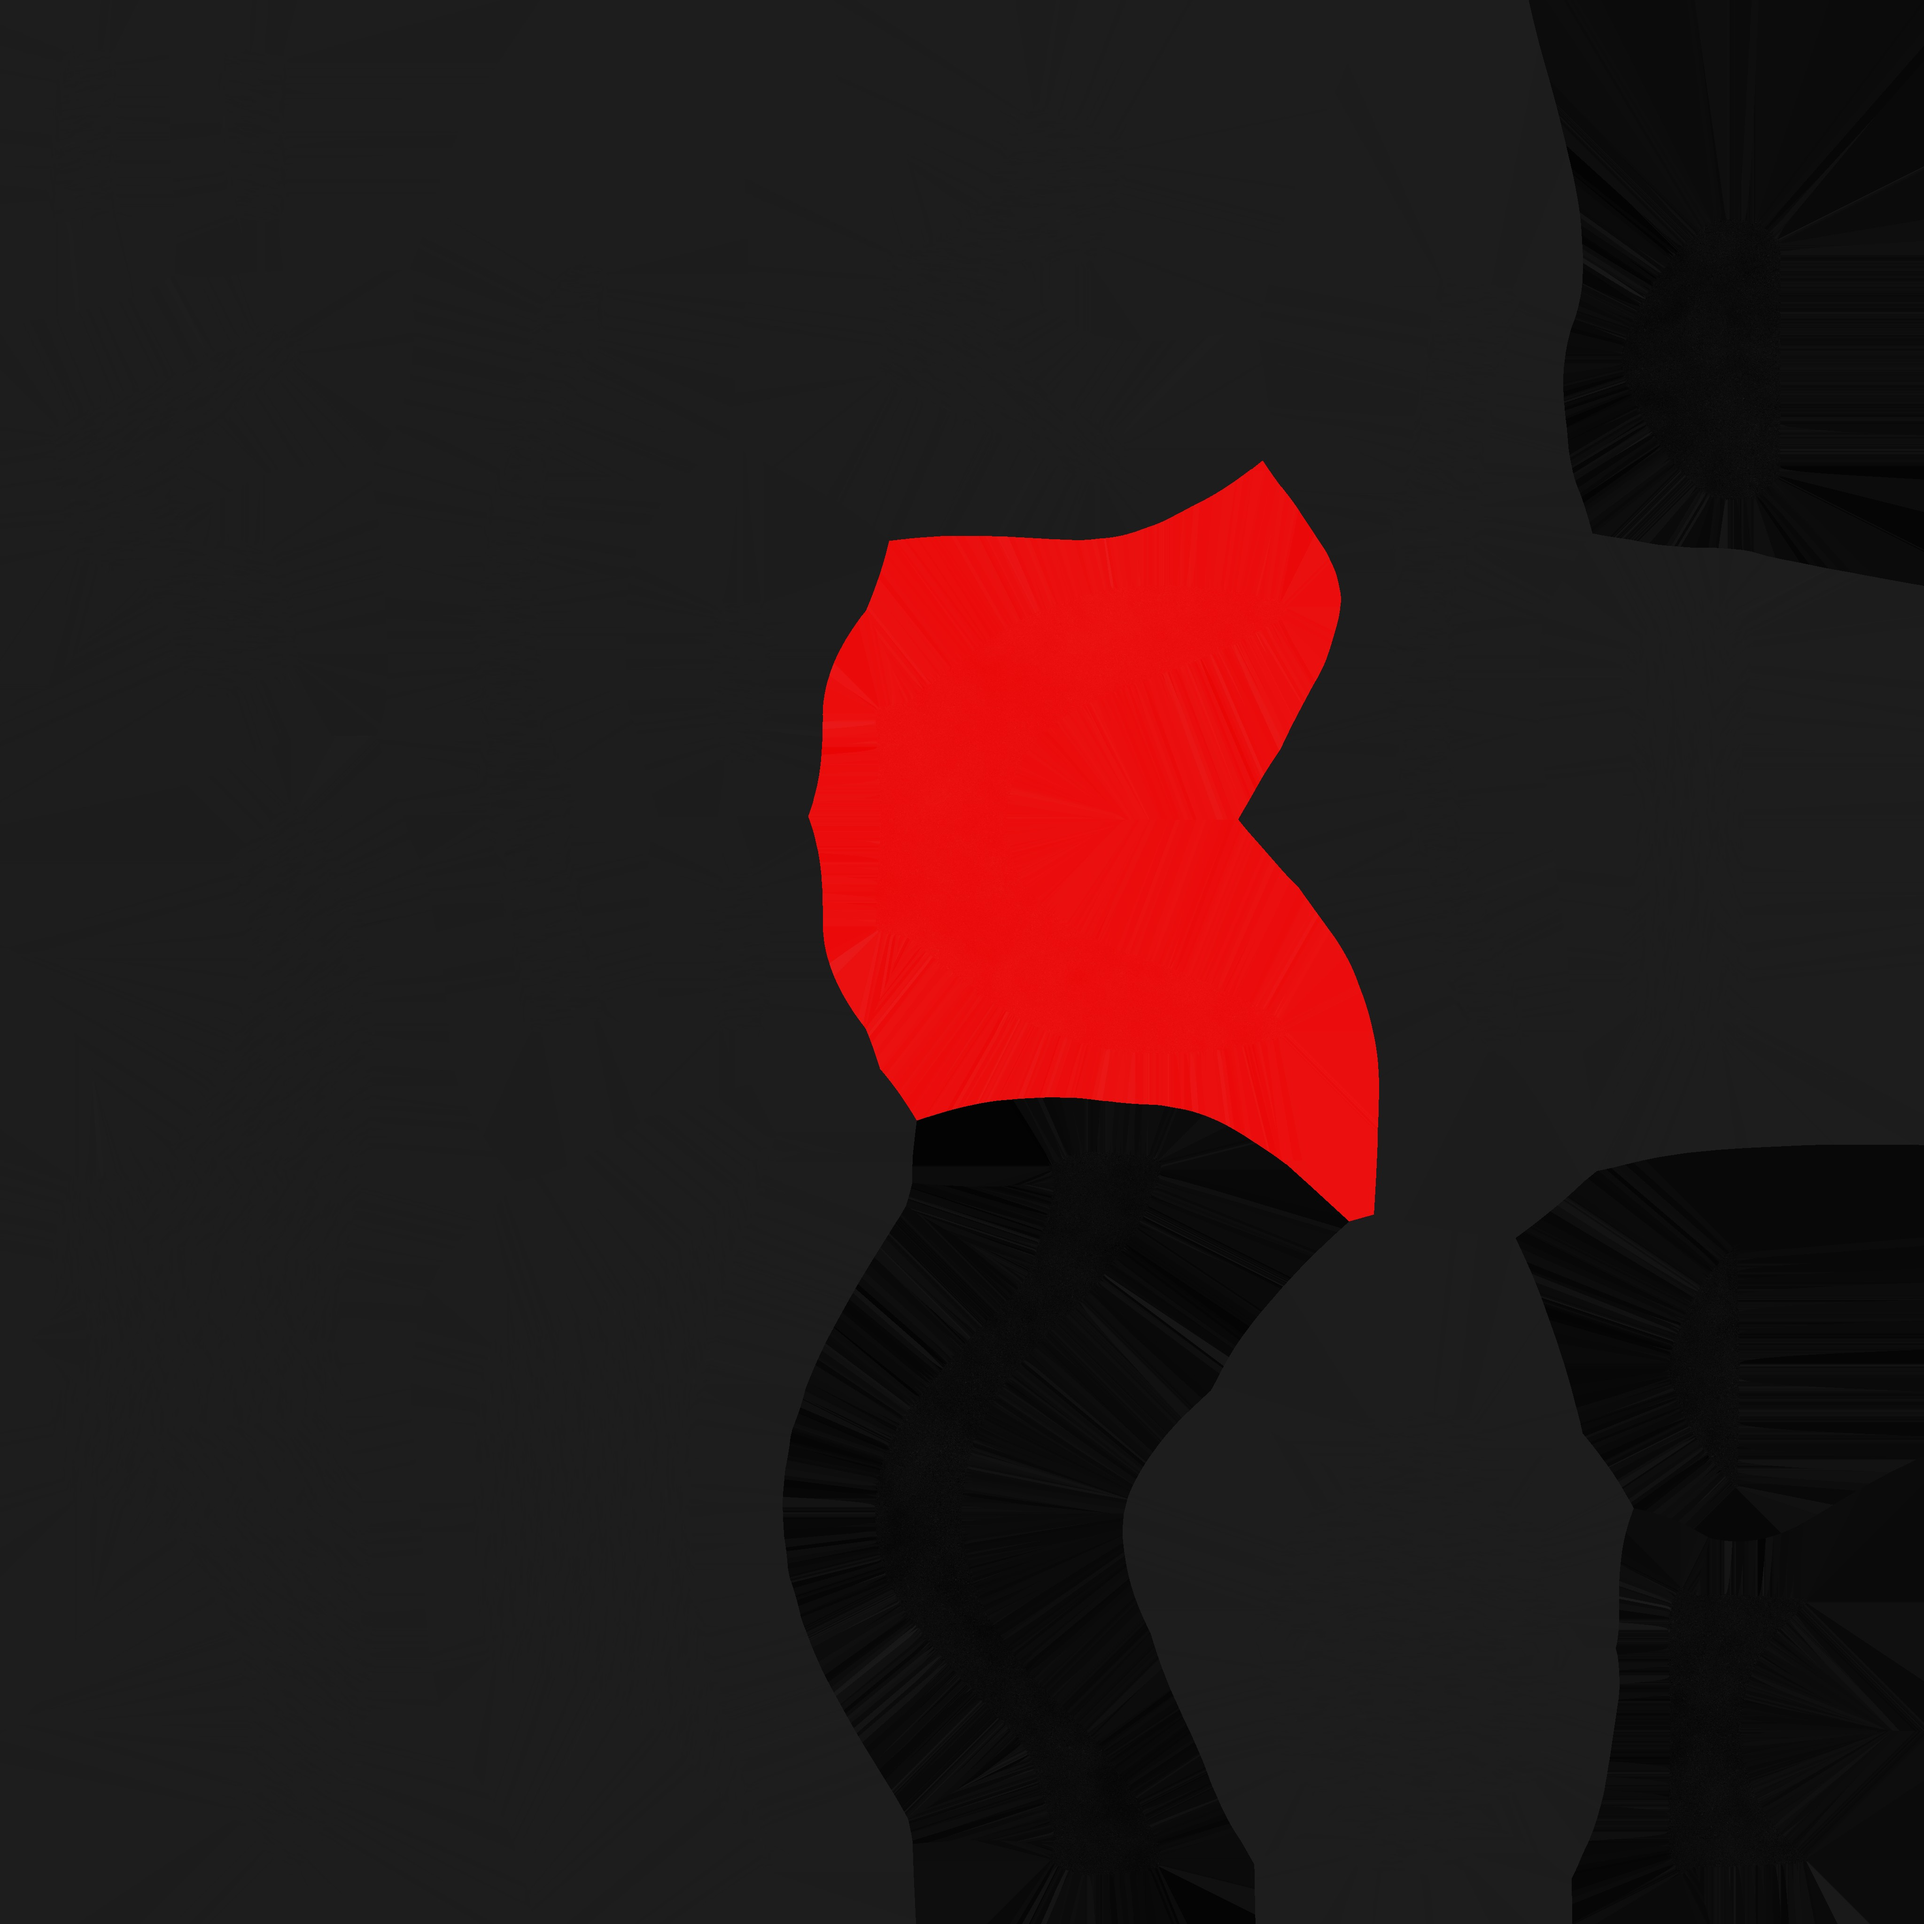
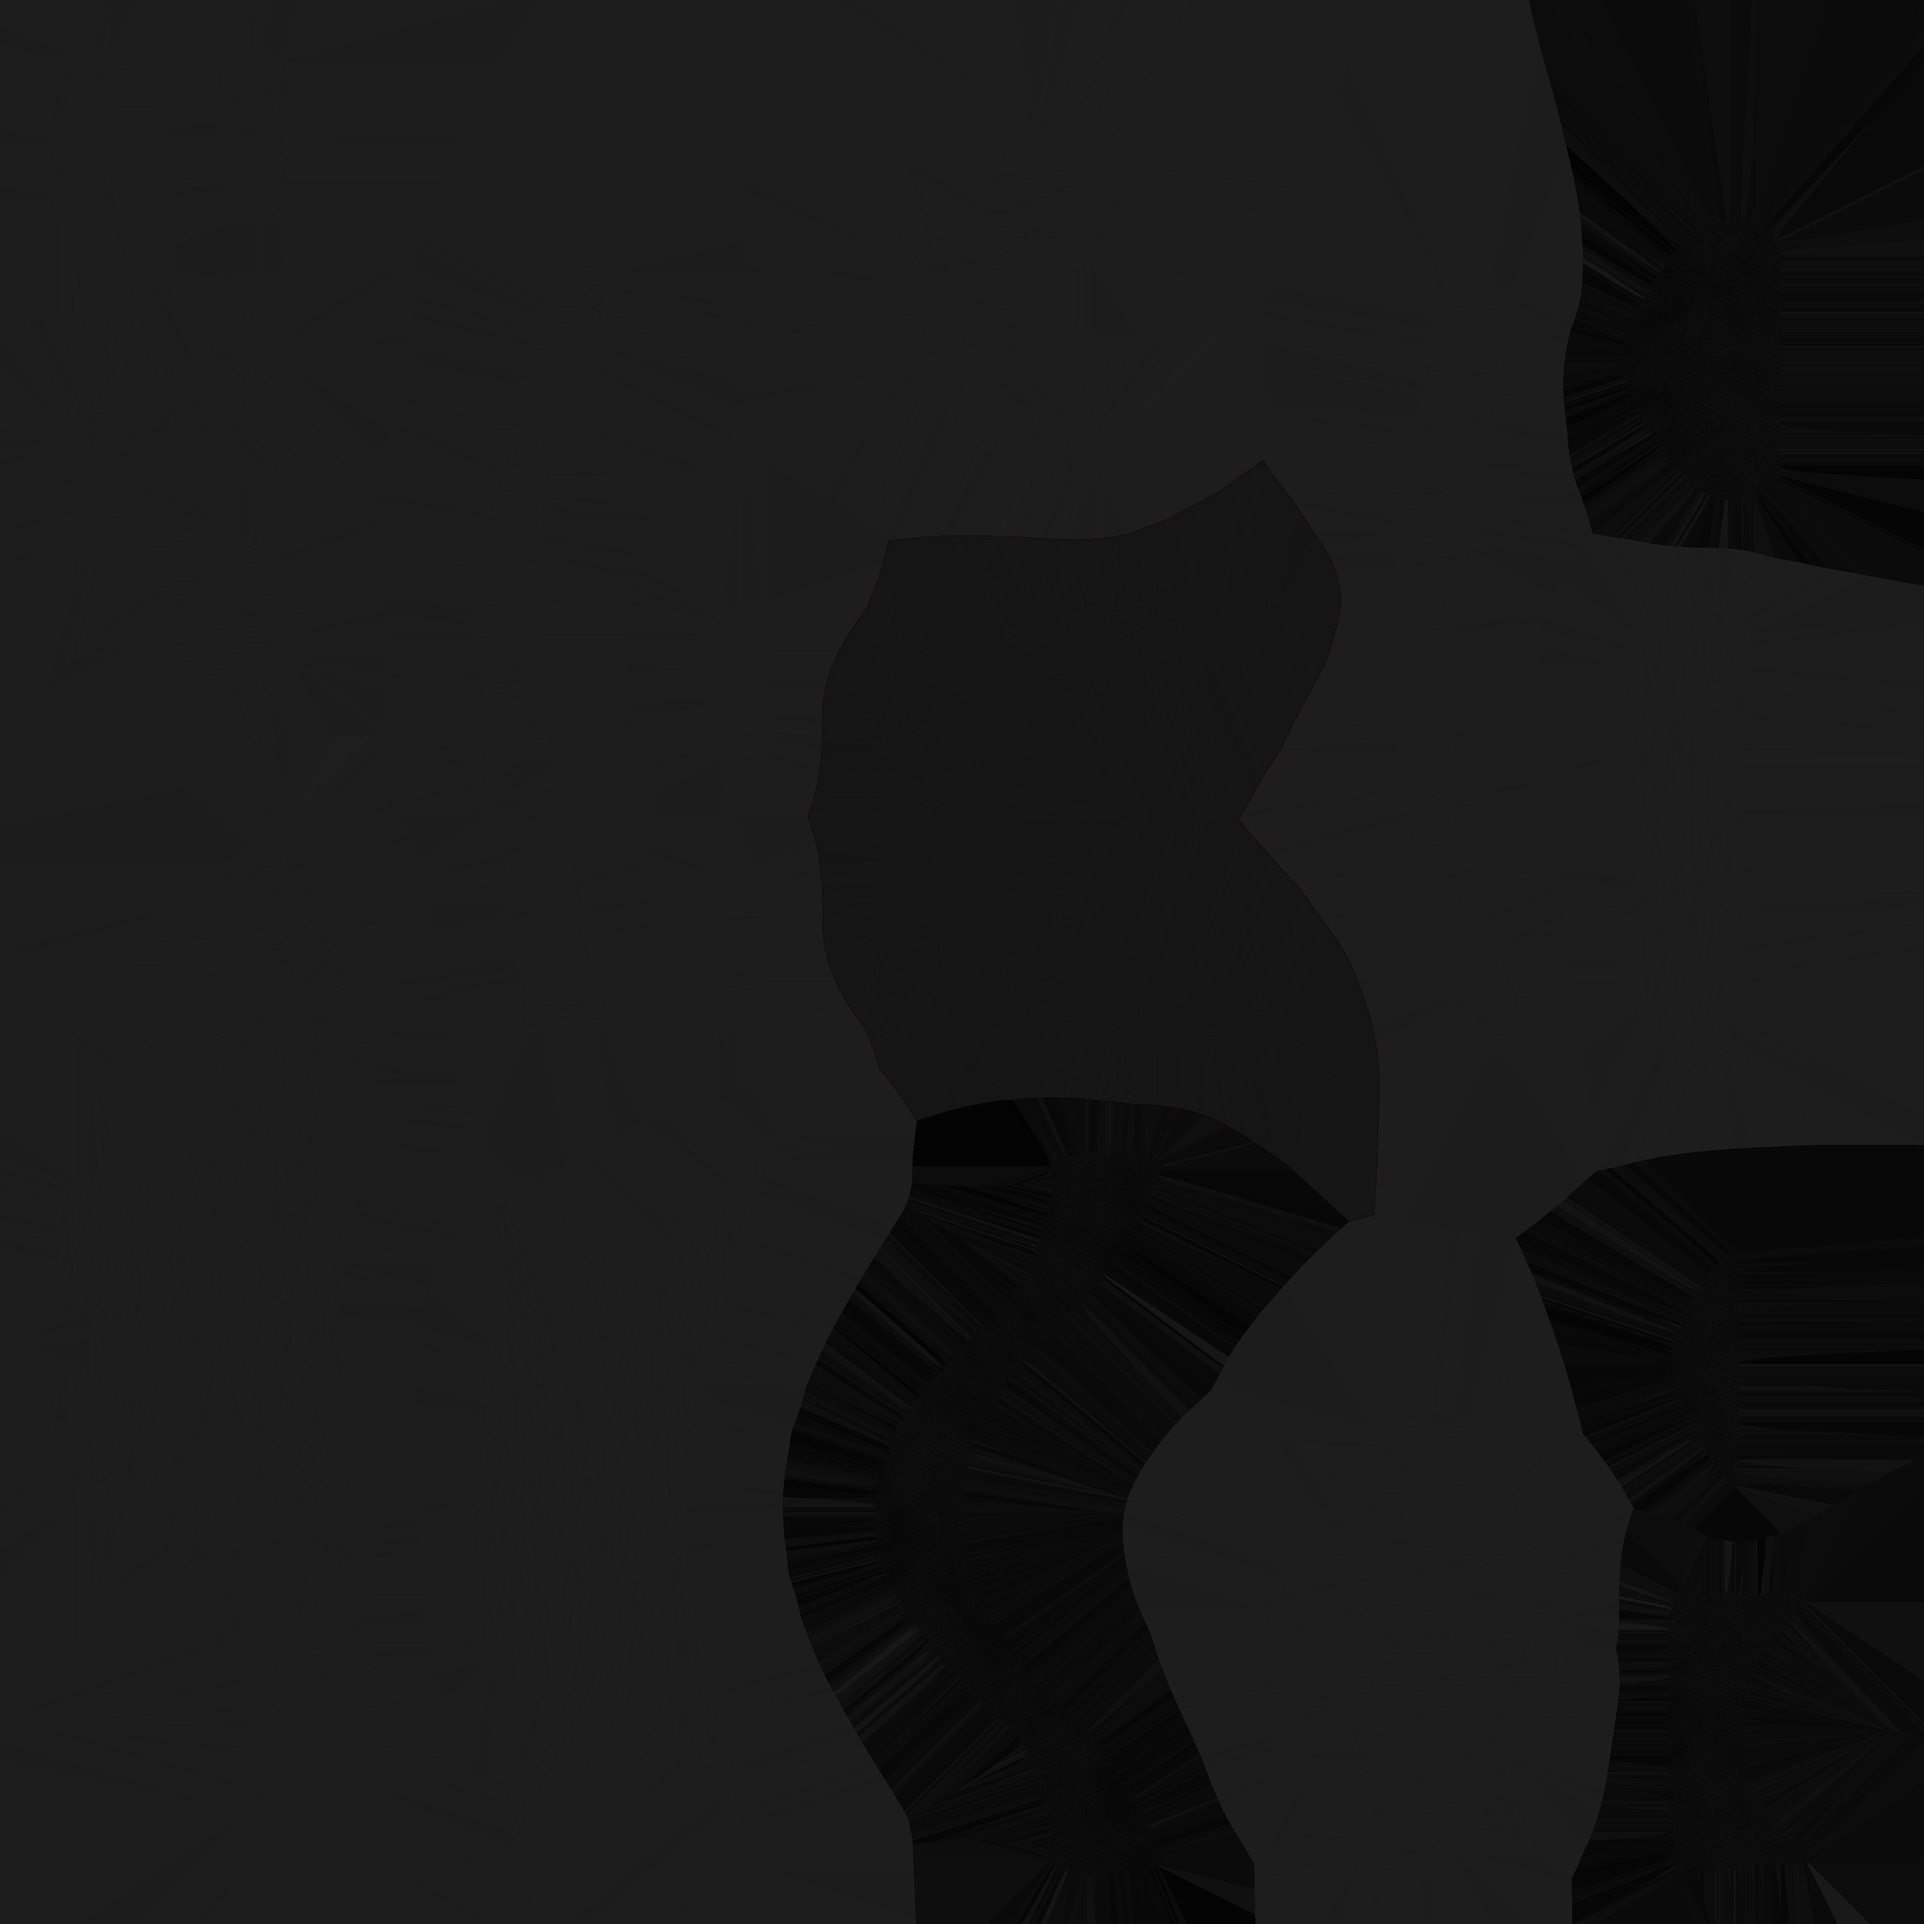
Stickers are now dynamic

Changed region(s): [[0.4062, 0.25, 0.7188, 0.6562]]

diff --git a/src/Sticker.jsx b/src/Sticker.jsx
@@ -1,22 +1,153 @@
 import { Decal, useTexture } from '@react-three/drei'
+import { useSnapshot } from 'valtio'
+import { state } from './store'
 
-export default function Sticker({ url, clearcoat, ...props }) {
-	const albedo = useTexture(url)
-	return (
-		<Decal {...props}>
-			<meshPhysicalMaterial
-				transparent
-				polygonOffset
-				polygonOffsetFactor={-10}
-				map={albedo}
-				map-flipY={false}
-				map-anisotropy={16}
-				roughness={0.6}
-				// clearcoat={1}
-				clearcoatRoughness={0.8}
-				metalness={1}
-				toneMapped={true}
-			/>
-		</Decal>
-	)
+function BellSticker() {
+	const snap = useSnapshot(state)
+
+	const BellAlbedo = useTexture('/tex/stickers/bell-logo.png')
+
+	if (snap.bellSticker) {
+		return (
+			<Decal
+				position={[0, 0.75, 0.35]}
+				scale={0}
+				rotation={[-Math.PI / Math.PI, Math.PI, Math.PI]}
+			>
+				<meshPhysicalMaterial
+					transparent
+					polygonOffset
+					polygonOffsetFactor={-10}
+					map={BellAlbedo}
+					map-flipY={false}
+					map-anisotropy={16}
+					roughness={0.6}
+					// clearcoat={1}
+					clearcoatRoughness={0.8}
+					metalness={1}
+					toneMapped={true}
+				/>
+			</Decal>
+		)
+	} else {
+		return (
+			<Decal
+				position={[0, 0.75, 0.35]}
+				scale={0.3}
+				rotation={[-Math.PI / Math.PI, Math.PI, Math.PI]}
+			>
+				<meshPhysicalMaterial
+					transparent
+					polygonOffset
+					polygonOffsetFactor={-10}
+					map={BellAlbedo}
+					map-flipY={false}
+					map-anisotropy={16}
+					roughness={0.6}
+					// clearcoat={1}
+					clearcoatRoughness={0.8}
+					metalness={1}
+					toneMapped={true}
+				/>
+			</Decal>
+		)
+	}
 }
+
+function RedBullSticker() {
+	const snap = useSnapshot(state)
+
+	const RedBullAlbedo = useTexture('/tex/stickers/red-bull-logo.png')
+
+	if (snap.redBullSticker) {
+		return (
+			<>
+				<Decal
+					position={[0.4, 0.03, 0.35]}
+					scale={0}
+					rotation={[Math.PI / 1.42, Math.PI / 2, Math.PI / 3]}
+				>
+					<meshPhysicalMaterial
+						transparent
+						polygonOffset
+						polygonOffsetFactor={-10}
+						map={RedBullAlbedo}
+						map-flipY={false}
+						map-anisotropy={16}
+						roughness={0.6}
+						clearcoat={1}
+						clearcoatRoughness={0}
+						metalness={1}
+						toneMapped={true}
+					/>
+				</Decal>
+
+				<Decal
+					position={[-0.4, 0.03, 0.35]}
+					scale={0}
+					rotation={[Math.PI / 1.42, Math.PI / 2, Math.PI / 3]}
+				>
+					<meshPhysicalMaterial
+						transparent
+						polygonOffset
+						polygonOffsetFactor={-10}
+						map={RedBullAlbedo}
+						map-flipY={false}
+						map-anisotropy={16}
+						roughness={0.6}
+						clearcoat={1}
+						clearcoatRoughness={0}
+						metalness={1}
+						toneMapped={true}
+					/>
+				</Decal>
+			</>
+		)
+	} else {
+		return (
+			<>
+				<Decal
+					position={[0.4, 0.03, 0.35]}
+					scale={0.42}
+					rotation={[Math.PI / 1.42, Math.PI / 2, Math.PI / 3]}
+				>
+					<meshPhysicalMaterial
+						transparent
+						polygonOffset
+						polygonOffsetFactor={-10}
+						map={RedBullAlbedo}
+						map-flipY={false}
+						map-anisotropy={16}
+						roughness={0.6}
+						clearcoat={1}
+						clearcoatRoughness={0}
+						metalness={1}
+						toneMapped={true}
+					/>
+				</Decal>
+
+				<Decal
+					position={[-0.4, 0.03, 0.35]}
+					scale={0.42}
+					rotation={[Math.PI / 1.42, Math.PI / 2, Math.PI / 3]}
+				>
+					<meshPhysicalMaterial
+						transparent
+						polygonOffset
+						polygonOffsetFactor={-10}
+						map={RedBullAlbedo}
+						map-flipY={false}
+						map-anisotropy={16}
+						roughness={0.6}
+						clearcoat={1}
+						clearcoatRoughness={0}
+						metalness={1}
+						toneMapped={true}
+					/>
+				</Decal>
+			</>
+		)
+	}
+}
+
+export { BellSticker, RedBullSticker }

diff --git a/src/OuterShell.jsx b/src/OuterShell.jsx
@@ -1,9 +1,12 @@
 import React, { useRef } from 'react'
-import { useGLTF, useTexture } from '@react-three/drei'
-import { useSnapshot } from 'valtio'
-import { state } from './store'
 import * as THREE from 'three'
-import Sticker from './Sticker'
+
+import { useGLTF, useTexture, Decal } from '@react-three/drei'
+import { useSnapshot } from 'valtio'
+
+import { state } from './store'
+
+import { BellSticker, RedBullSticker } from './Sticker'
 
 export default function OuterShell(props) {
 	const snap = useSnapshot(state)
@@ -47,6 +50,7 @@ export default function OuterShell(props) {
 			texture.encoding = THREE.sRGBEncoding
 		}
 	)
+
 	const metalness = useTexture(
 		'/tex/outer-shell/helmet-outer-shell-metalness.jpg',
 		(texture) => {
@@ -54,6 +58,7 @@ export default function OuterShell(props) {
 			texture.encoding = THREE.sRGBEncoding
 		}
 	)
+
 	const roughness = useTexture(
 		'/tex/outer-shell/helmet-outer-shell-roughness.webp',
 		(texture) => {
@@ -61,6 +66,7 @@ export default function OuterShell(props) {
 			texture.encoding = THREE.sRGBEncoding
 		}
 	)
+
 	return (
 		<group {...props} dispose={null}>
 			<mesh castShadow receiveShadow geometry={nodes.Outer_Shell.geometry}>
@@ -73,25 +79,9 @@ export default function OuterShell(props) {
 					clearcoat={snap.clearcoat ? 1 : 0}
 					side={THREE.DoubleSide}
 				/>
-				<Sticker
-					url='/tex/stickers/red-bull-logo.png'
-					position={[0.4, 0.03, 0.35]}
-					scale={0.42}
-					rotation={[Math.PI / 1.42, Math.PI / 2, Math.PI / 3]}
-				/>
-				<Sticker
-					url='/tex/stickers/red-bull-logo.png'
-					position={[-0.4, 0.03, 0.35]}
-					scale={0.42}
-					rotation={[Math.PI / 1.42, Math.PI / 2, Math.PI / 3]}
-				/>
-				<Sticker
-					url='/tex/stickers/bell-logo.png'
-					position={[0, 0.75, 0.35]}
-					scale={0.3}
-					rotation={[-Math.PI / Math.PI, Math.PI, Math.PI]}
-					clearcoat={1}
-				/>
+
+				<BellSticker />
+				<RedBullSticker />
 			</mesh>
 		</group>
 	)

diff --git a/src/overlay.jsx b/src/overlay.jsx
@@ -77,6 +77,24 @@ function Customizer() {
 				color={snap.stitching}
 				onChange={(color) => (state.stitching = color)}
 			/>
+			<div>
+				<button
+					onClick={() => {
+						state.bellSticker = !state.bellSticker
+						console.log(state.bellSticker)
+					}}
+				>
+					Bell Sticker
+				</button>
+				<button
+					onClick={() => {
+						state.redBullSticker = !state.redBullSticker
+						console.log(state.redBullSticker)
+					}}
+				>
+					RedBull Stickers
+				</button>
+			</div>
 		</div>
 	)
 }

diff --git a/src/store.jsx b/src/store.jsx
@@ -6,6 +6,8 @@ const state = proxy({
 	clearcoat: true,
 	envmap: 'studio',
 	stitching: '#ffffff',
+	bellSticker: true,
+	redBullSticker: true,
 })
 
 export { state }
